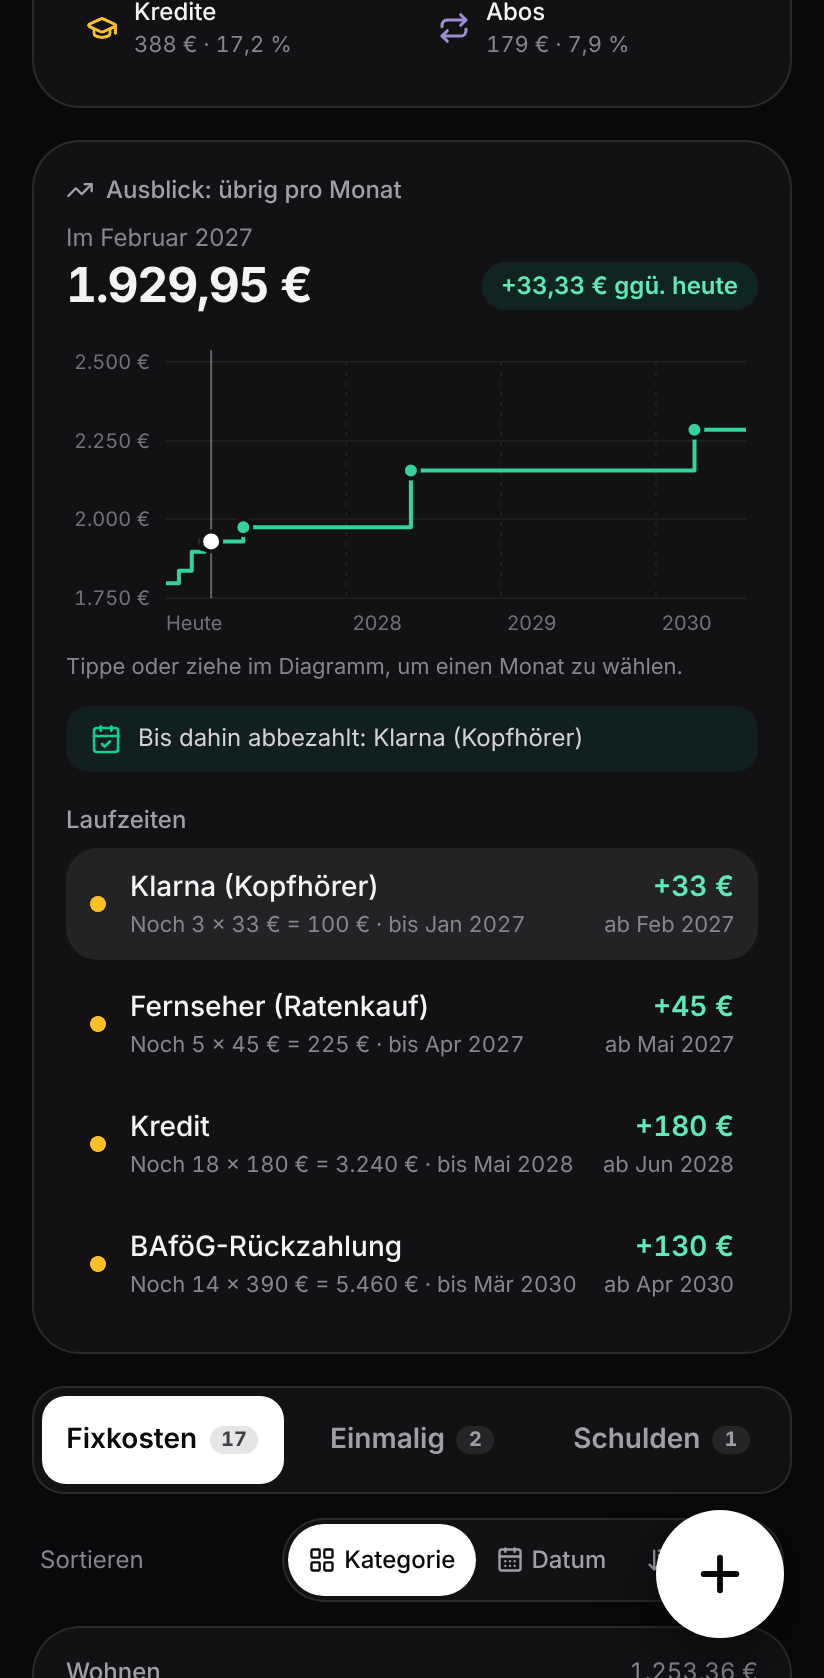
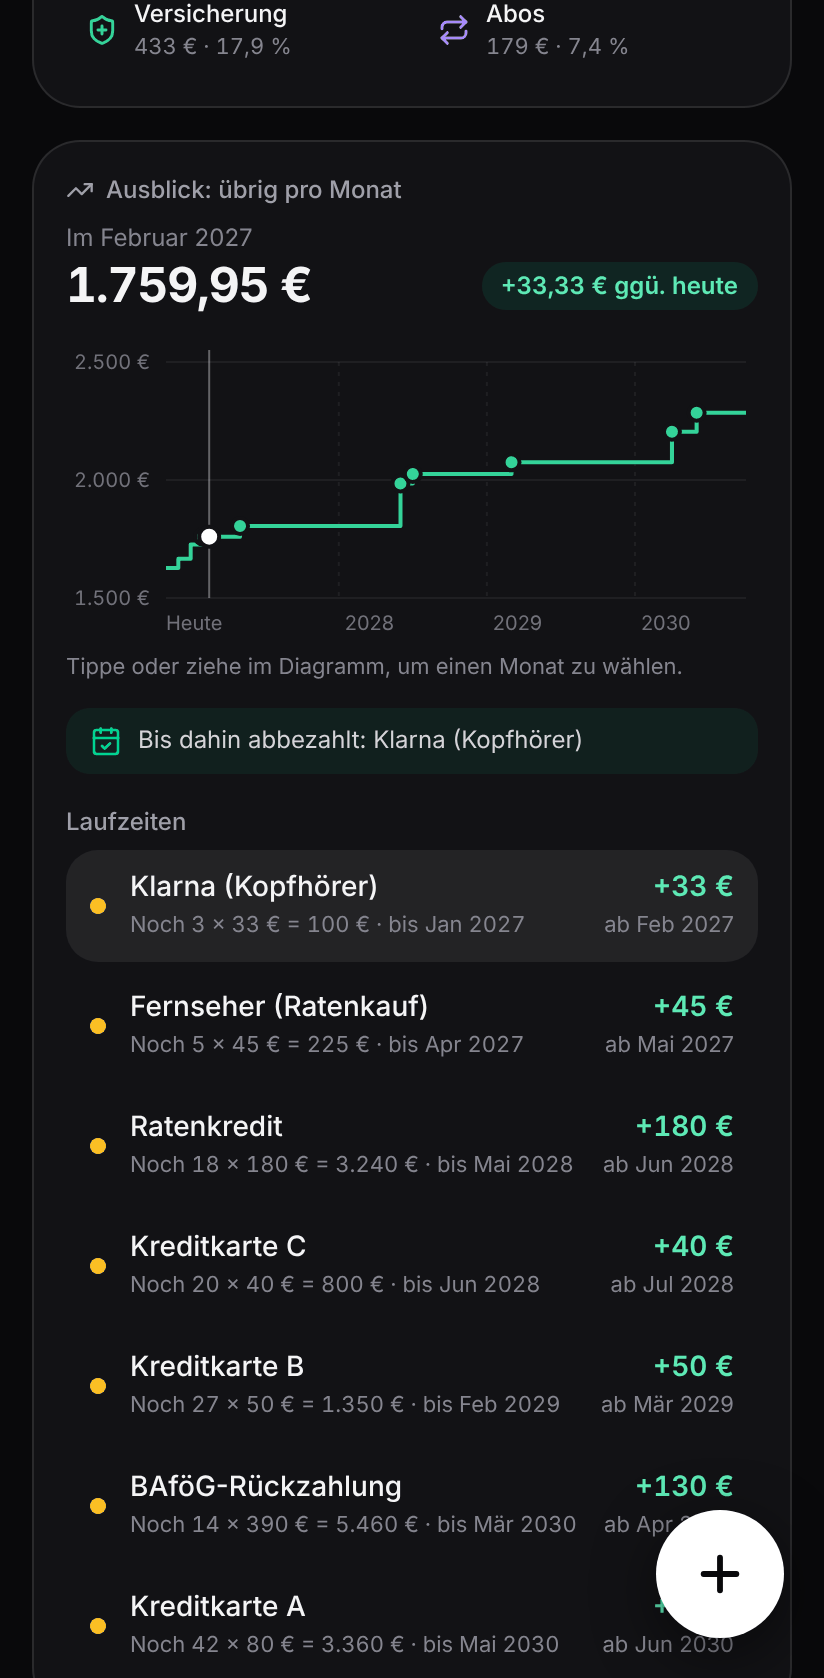
Abschluss-UX: Einstieg ohne verdeckten Button, Installations-Screenshots mit Schulden-Ansicht
- +-Button im leeren Einstieg ausgeblendet (verdeckte sonst den Beispieldaten-Link)
- Screenshots für den Android-Installationsdialog inkl. Schulden-Ansicht, Beschreibung aktualisiert
- README: Formatierungsbefehl

Claude-Session: https://claude.ai/code/session_01ASPwyjJ79HQLkfXbjjLJqM

diff --git a/src/App.tsx b/src/App.tsx
@@ -515,14 +515,17 @@ export default function App() {
         )}
       </main>
 
-      <button
-        type="button"
-        onClick={() => openEntry({ kind: view === 'debts' ? 'debt' : tab, item: null })}
-        className="fixed right-[max(1.25rem,calc(50%-15rem))] bottom-[calc(1.25rem+env(safe-area-inset-bottom))] z-40 flex size-16 items-center justify-center rounded-full bg-white text-zinc-950 shadow-[0_8px_30px_rgba(0,0,0,0.5)] transition hover:bg-zinc-200 active:scale-90"
-        aria-label="Eintrag hinzufügen"
-      >
-        <Plus className="size-7" strokeWidth={2.5} />
-      </button>
+      {/* Im leeren Zustand führen die Schritte durch den Einstieg – dort würde der Button sie verdecken */}
+      {!isEmpty && (
+        <button
+          type="button"
+          onClick={() => openEntry({ kind: view === 'debts' ? 'debt' : tab, item: null })}
+          className="fixed right-[max(1.25rem,calc(50%-15rem))] bottom-[calc(1.25rem+env(safe-area-inset-bottom))] z-40 flex size-16 items-center justify-center rounded-full bg-white text-zinc-950 shadow-[0_8px_30px_rgba(0,0,0,0.5)] transition hover:bg-zinc-200 active:scale-90"
+          aria-label="Eintrag hinzufügen"
+        >
+          <Plus className="size-7" strokeWidth={2.5} />
+        </button>
+      )}
 
       {toast && <Toast key={toast.id} toast={toast} onDismiss={dismissToast} />}
 

diff --git a/index.html b/index.html
@@ -7,10 +7,7 @@
       content="width=device-width, initial-scale=1.0, viewport-fit=cover, interactive-widget=resizes-content"
     />
     <title>Fixkosten</title>
-    <meta
-      name="description"
-      content="Fixkosten & Cashflow im Blick – Einkommen vs. wiederkehrende Kosten. Lokal & offline."
-    />
+    <meta name="description" content="Fixkosten, Cashflow und Schulden im Blick – mit Tilgungsplan. Lokal & offline." />
     <meta name="theme-color" content="#09090b" />
     <meta name="color-scheme" content="dark" />
 

diff --git a/public/sw.js b/public/sw.js
@@ -1,5 +1,5 @@
 /* Einfacher Offline-Service-Worker: Network-first für Seiten, Cache-first für Assets. */
-const CACHE = 'fixkosten-v3'
+const CACHE = 'fixkosten-v4'
 const PRECACHE = ['./', './index.html', './manifest.webmanifest', './icons/icon-192.png', './icons/icon-512.png']
 
 self.addEventListener('install', (event) => {

diff --git a/src/components/SettingsSheet.tsx b/src/components/SettingsSheet.tsx
@@ -270,7 +270,7 @@ export function SettingsSheet({
           )}
         </section>
 
-        <p className="text-center text-[11px] text-zinc-500">Fixkosten · lokal & offline · v1.3</p>
+        <p className="text-center text-[11px] text-zinc-500">Fixkosten · lokal & offline · v2.0</p>
       </div>
     </BottomSheet>
   )

diff --git a/README.md b/README.md
@@ -52,6 +52,7 @@ npm install
 npm run dev        # Entwicklungsserver
 npm run build      # Typecheck + Produktions-Build nach dist/
 npm run lint       # oxlint (Warnungen = Fehler)
+npm run format     # Prettier (einheitliche Formatierung)
 npm run preview    # Build lokal testen (inkl. Service Worker)
 ```
 
